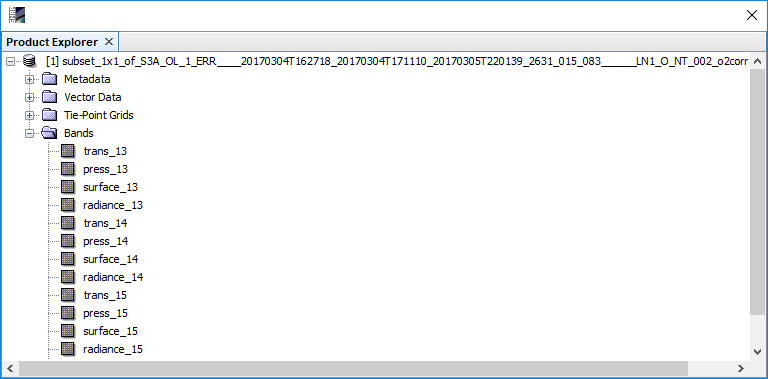
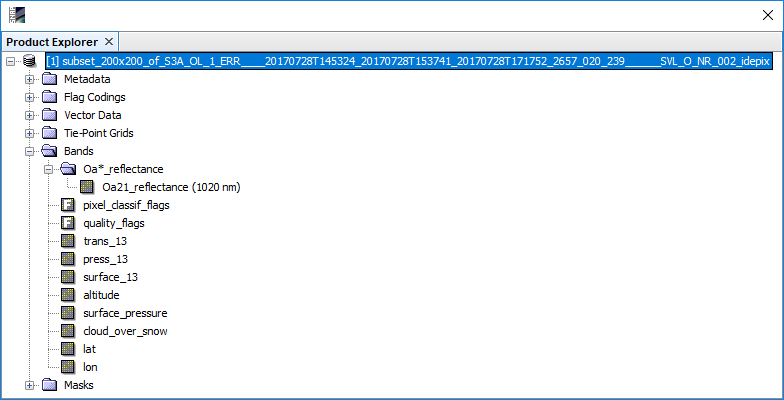
help update

Changed region(s): [[0.0, 0.0, 1.0, 1.0]]

diff --git a/src/main/javahelp/org/esa/s3tbx/s3tbx/idepix/olci/s3snow/docs/olci/IdepixOlciProcessorDescription.html b/src/main/javahelp/org/esa/s3tbx/s3tbx/idepix/olci/s3snow/docs/olci/IdepixOlciProcessorDescription.html
@@ -16,7 +16,7 @@
 
 <html>
 <head>
-    <title>Idepix OLCI external plugin Processor Description</title>
+    <title>Idepix OLCI Processor Description</title>
     <link rel="stylesheet" href="../style.css">
 </head>
 
@@ -25,7 +25,7 @@
 <table class="header">
     <tr class="header">
         <td class="header">&nbsp;
-            Idepix OLCI external plugin - Processor Description
+            Idepix OLCI plugin for S3-SNOW - Processor Description
         </td>
         <td class="header" align="right">
             <a href="nbdocs://org.esa.snap.snap.help/org/esa/snap/snap/help/docs/general/overview/SnapOverview.html">
@@ -44,14 +44,13 @@
 <h5>Source Product Group</h5>
 
 <p class="i1">
-    <b>Name: </b>
-    Used to select the spectral source product. The source product shall
-    contain spectral bands providing a source spectrum at each pixel. Use the <b>...</b> button to
+    Used to select the IdePix OLCI source product. Use the <b>...</b> buttons to
     open a data product currently not opened in the Sentinel Toolbox.
 </p>
 
-<h5>Supported Sentinel-3 OLCI Source Products</h5>
-The following Sentinel-3 OLCI source products are supported for Idepix classification:
+<h5>Supported IdePix OLCI L1b Source Products</h5>
+<p class="i1">
+The following source products are supported for Idepix classification:
 <ul>
     <li>
         S3A_OL_1_EFR_*.SEN3:<br>
@@ -62,9 +61,24 @@ The following Sentinel-3 OLCI source products are supported for Idepix classific
         Reduced Resolution TOA Radiance, after radiometrical and spectral calibration
     </li>
 </ul>
+<p class="i1">
 For detailed product descriptions and file naming conventions see the Sentinel-3 OLCI L1b Product User Guide
 (https://sentinel.esa.int/web/sentinel/user-guides/sentinel-3-olci/product-types/level-1b).
 
+<h5>Supported optional source products</h5>
+<p class="i1">
+The following optional source products are supported for Idepix classification:
+<ul>
+    <li>
+        DEM product for O2 correction:<br>
+        A product which has an input format supported by SNAP and which contains a DEM altitude band to
+        be used in the O2 correction called by IdePix as an alternative to the altitude band provided
+        with the OLCI L1b product.
+    </li>
+</ul>
+<p class="i1">
+For more details on the O2 correction see the help documentation of the corresponding SNAP plugin which had
+to be installed together with this IdePix plugin.
 
 <h5>Target Product Group</h5>
 
@@ -90,47 +104,59 @@ For detailed product descriptions and file naming conventions see the Sentinel-3
 <p align="center"><img src="../images/OlciParameters.png"></p>
 
 <p class="i1">
-    <b>Select TOA radiances to write to the target product: </b><br>
-    The TOA radiance bands from the source product which shall be written into the target product can be selected here.
-    Multiple selection is possible.
-</p>
-
-<p class="i1">
-    <b>Select TOA reflectances to write to the target product: </b><br>
-    The intermediately computed TOA reflectances bands which shall be written into the target product can be selected here.
-    Multiple selection is possible.
-</p>
-
-<p class="i1">
-    <b>Write NN value to the target product: </b><br>
-    If selected, the output value of the neural network
-    (floating point number on the interval [0.0, 5.0]) is written to the target product. The default is 'false'.
-</p>
-
-<p class="i1">
-    <b>Compute cloud shadow: </b><br>
-    If set, a cloud shadow is computed and added to the pixel classification. The default value is 'true'.
-</p>
-
-<p class="i1">
-    <b>Compute a cloud buffer: </b><br>
-    If set, a cloud buffer of certain width is computed and added to the pixel classification. The default value is 'true'.
-</p>
-
-<p class="i1">
-    <b>Width of cloud buffer (# of pixels): </b><br>
-    If a cloud buffer is computed, the buffer width (in # of pixels around the cloudy reference pixel) can be specified.
-    The default value is '2'.
-</p>
-
-<p class="i1">
-    <b>Use SRTM Land/Water mask: </b><br>
-    If set, a land/water mask derived from the SRTM (Shuttle Radar Topography Mission) dataset is used instead
-    of the land flag included in the Sentinel-3 OLCI L1b product. The SRTM land/water mask is usually more precise in specific
-    case (e.g. inland lakes), but slows down the processing speed. The default value is 'false'.
+    <b>Name of DEM band (if optional DEM product is provided): </b><br>
+    The name of the altitude band in the optional DEM product. Mandatory if a DEM product is provided.
+    If no DEM product is provided, this parameter has no effect.
 </p>
 
 <h3>The Processing Result</h3>
+
+<p>
+    The IdePix OLCI processor for S3-Snow provides the following outputs:
+</p>
+
+<p align="center"><img src="../images/processor_output.png"></p>
+
+<p class="i1">
+    <b>Oa21_reflectance: </b><br>
+    TOA reflectance for band 21 (1020nm).
+</p>
+
+<p class="i1">
+    <b>trans_13: </b><br>
+    The rectified and desmiled transmission for band 13 (761.25nm).
+</p>
+
+<p class="i1">
+    <b>press_13: </b><br>
+    The pressure for band 13 for a given rectified transmission, which would be measured in given band
+    without scattering. Useful for a first object height estimation for bright targets.
+</p>
+
+<p class="i1">
+    <b>surface_13: </b><br>
+    The rectified transmission for band 13, which would be measured without scattering ('surface transmission').
+    Useful only for comparison purposes.
+</p>
+
+<p class="i1">
+    <b>surface_pressure: </b><br>
+    The pressure at altitude of the surface.
+</p>
+
+<p class="i1">
+    <b>cloud_over_snow: </b><br>
+    Mask band indicating if there is cloud over snow (value 1.0) for the given pixel, 0.0 otherwise.
+</p>
+
+<p class="i1">
+    <b>pixel_classif_flags: </b><br>
+    Standard IdePix classification flag band (see below).
+</p>
+<br>
+
+
+<p class="i1">
 The Idepix classification result is written into the target product as a flag band named 'pixel_classif_flags'.
 This band holds integer values which for Sentinel-3 OLCI follow the flag coding shown below.
 
@@ -139,6 +165,7 @@ This band holds integer values which for Sentinel-3 OLCI follow the flag coding 
 </p>
 <br>
 
+<p class="i1">
 The target product also provides a corresponding flag mask to visualize the pixel classification through the
 SNAP Mask Manager:
 

diff --git a/src/main/javahelp/org/esa/s3tbx/s3tbx/idepix/olci/s3snow/docs/olci/IdepixOlciTool.html b/src/main/javahelp/org/esa/s3tbx/s3tbx/idepix/olci/s3snow/docs/olci/IdepixOlciTool.html
@@ -16,7 +16,7 @@
 
 <html>
 <head>
-    <title>SNAP Data Processors - Idepix OLCI external plugin</title>
+    <title>SNAP Data Processors - Idepix OLCI</title>
     <meta http-equiv="Content-Type" content="text/html; charset=iso-8859-1">
     <link rel="stylesheet" href="../style.css">
 </head>
@@ -25,8 +25,11 @@
 <table class="header">
     <tr class="header">
         <td class="header">&nbsp;
-            Idepix OLCI external plugin</td>
-        <td class="header" align="right"><a href="nbdocs://org.esa.snap.snap.help/org/esa/snap/snap/help/docs/general/overview/SnapOverview.html"><img src="../images/snap_header.jpg" border=0></a>
+            Idepix OLCI plugin for S3-Snow
+        </td>
+        <td class="header" align="right"><a
+                href="nbdocs://org.esa.snap.snap.help/org/esa/snap/snap/help/docs/general/overview/SnapOverview.html"><img
+                src="../images/snap_header.jpg" border=0></a>
         </td>
     </tr>
 </table>
@@ -34,10 +37,11 @@
 <h3>Introduction</h3>
 
 <p>
-    The Idepix Processor provides a pixel classification into properties such as clear/cloudy, land/water, snow, ice etc.
+    The Idepix Processor provides a pixel classification into properties such as clear/cloudy, land/water, snow, ice
+    etc.
     The processing options/parameters as well as the underlying classification algorithms are instrument-dependent.
-    The Idepix processor core components are an internal part of the Sentinel-3 Toolbox of the current SNAP version.
-    Actually the following satellites/sensors are supported:
+    The Idepix processor modules for different satellites/sensors are an internal part of the Sentinel-3 Toolbox of
+    the current SNAP version. Actually the following satellites/sensors are supported:
 </p>
 
 <p>
@@ -82,20 +86,21 @@
 
 <br>
 <b>
-However, the processor described here is a plug-in version of the IdePix Sentinel-3 OLCI processor. This kind of specific IdePix
-plugins are suitable e.g. for experimental processor versions to test scientific improvements, or for the implementation
-of specific requirements in specific projects.
+    However, the processor described here is a plug-in version of the IdePix Sentinel-3 OLCI processor, being adapted
+    for the specific needs for a pixel classification within the S3-Snow project. This allows to more easily set up
+    experimental processor versions to test scientific improvements, and to provide special user options which
+    are ultimately not needed in other projects than S3-Snow..
 </b>
 <br>
 
 <br>
-Idepix is continuously being improved for already supported sensors and extended for further sensors in the frame
+In general, IdePix is continuously being improved for already supported sensors and extended for further sensors in the frame
 of various projects, such as the ESA LandCover ([1],[2]) and OceanColour ([3]) CCI projects.
 
 <br>
 
-<p><a href="IdepixOlciProcessorDescription.html">Idepix OLCI Processor Description</a></p>
-<p><a href="IdepixOlciAlgorithmSpecification.html">Idepix OLCI Algorithm Specification</a></p>
+<p><a href="IdepixOlciProcessorDescription.html">Idepix OLCI Processor Description (S3-SNOW version)</a></p>
+<p><a href="IdepixOlciAlgorithmSpecification.html">Idepix OLCI Algorithm Specification (S3-SNOW version)</a></p>
 
 <p><a href="IdepixOlciCommandLine.html">Processing from the Command Line</a></p>
 

diff --git a/src/main/javahelp/org/esa/s3tbx/s3tbx/idepix/olci/s3snow/docs/olci/IdepixOlciAlgorithmSpecification.html b/src/main/javahelp/org/esa/s3tbx/s3tbx/idepix/olci/s3snow/docs/olci/IdepixOlciAlgorithmSpecification.html
@@ -1,6 +1,6 @@
 <html>
 <head>
-    <title>SNAP Data Processors - Idepix OLCI external plugin Algorithm Specification</title>
+    <title>SNAP Data Processors - Idepix OLCI Algorithm Specification</title>
     <meta http-equiv="Content-Type" content="text/html; charset=iso-8859-1">
     <link rel="stylesheet" href="../style.css">
 </head>
@@ -9,7 +9,7 @@
 <table class="header">
     <tr class="header">
         <td class="header">&nbsp;
-            Idepix OLCI external plugin - Algorithm Specification
+            Idepix OLCI plugin for S3-Snow - Algorithm Specification
         </td>
         <td class="header" align="right">
             <a href="nbdocs://org.esa.snap.snap.help/org/esa/snap/snap/help/docs/general/overview/SnapOverview.html">
@@ -24,7 +24,7 @@
 
 <h4>Neural network classification</h4>
 
-<p>
+<p class="i1">
     The Idepix classification algorithm for Sentinel-3 OLCI is based on a neural network approach. A common neural net
     is used for both land and water pixels.
     As input for the neural net, the square roots of the OLCI TOA reflectances (obtained from an internal
@@ -34,7 +34,7 @@
     'cloud ambiguous', 'cloud' (which means sure OR ambiguous) ,  or 'snow/ice'.
 
 <h4>Additional properties</h4>
-<p>
+<p class="i1">
     The following additional pixel properties are provided from the classification:
 <ul>
     <li>
@@ -53,6 +53,7 @@
     </li>
 </ul>
 
+<p class="i1">
 By default, the 'land' and 'coastline' pixels are identified from the land flag included in the
 quality flags which come with the L1b product. Optionally, the SRTM (Shuttle Radar Topography Mission) land/water
 mask[2] can be applied instead.
@@ -100,9 +101,27 @@ The latter is a fractional mask:
     </li>
 </ul>
 
+<h4>Additional bands</h4>
+<p class="i1">
+    Thee are additional bands provided which are computed as follows:
+<ul>
+    <li>
+        'surface_pressure': <br>
+        &emsp; p = 1013.25 * exp(-altitude/H) with the altitude given in metres, and the scale height H = 8400m
+    </li>
+    <li>
+        'cloud_over_snow': <br>
+        &emsp; 1.0 &emsp; if pixel_classif_flags.IDEPIX_LAND && Oa21_reflectance > 0.5 && surface_13 - trans_13 < 0.01 <br>
+        &emsp; 0.0 &emsp; otherwise
+    </li>
+    <li>
+        'coastline': the pixel is a coastline pixel
+    </li>
+</ul>
+
 <h4>Known issues</h4>
 <p>
-    The following pixel properties are currently NOT provided for MERIS:
+    The following pixel properties are currently NOT provided for OLCI:
 <ul>
     <li>
         'BRIGHT'
